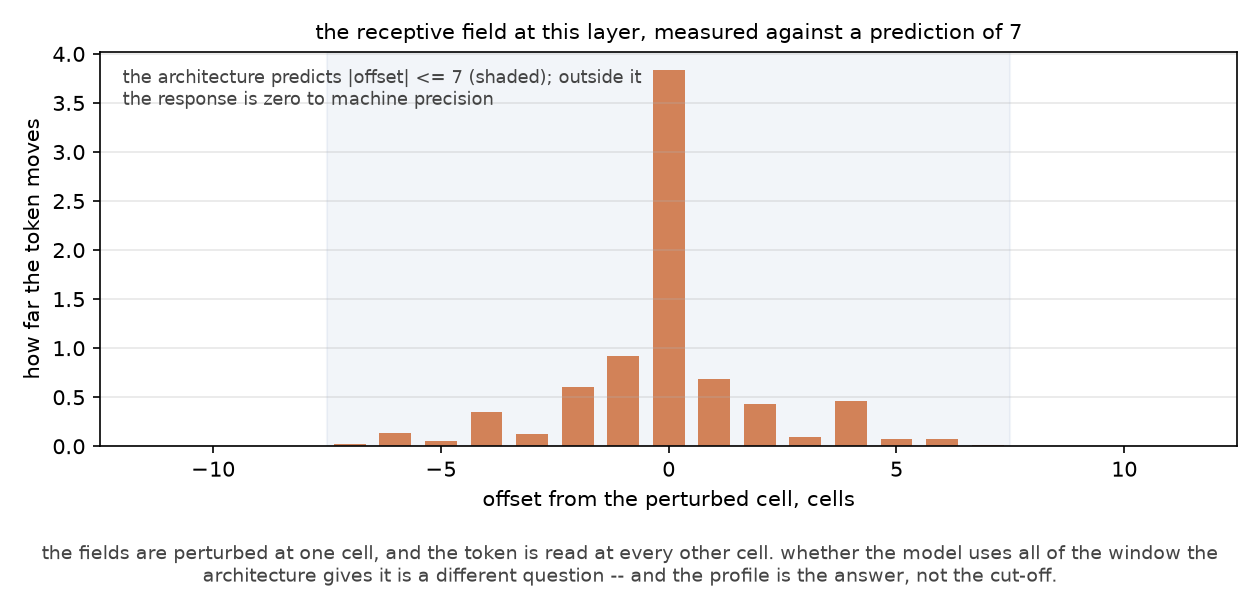
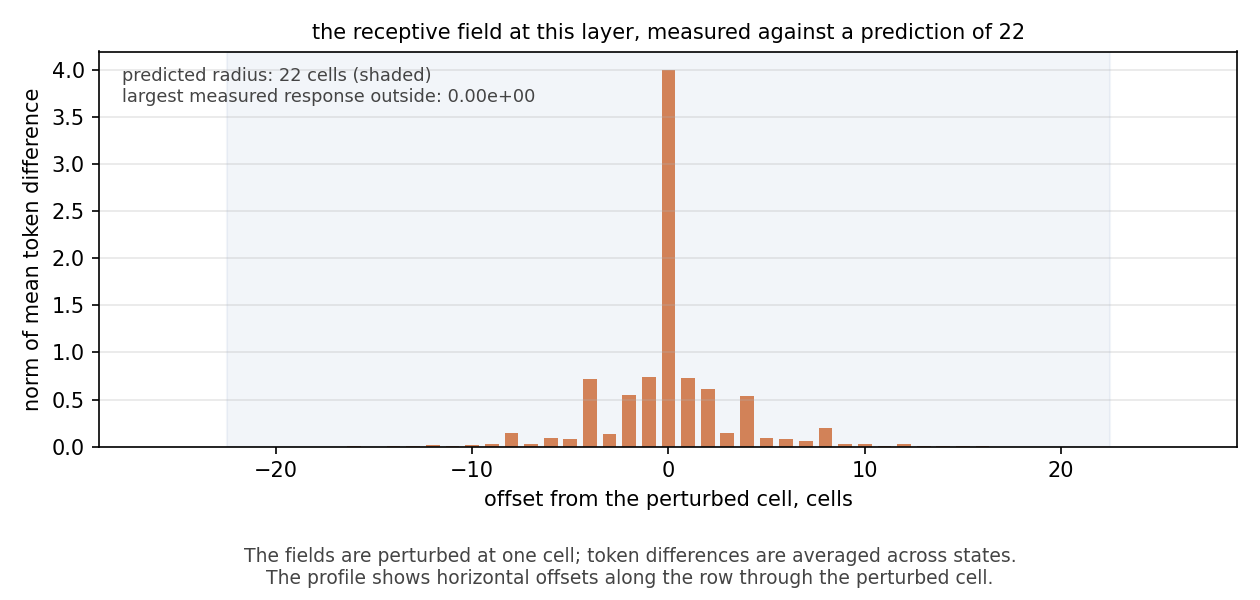
Update README and code to include new SAE firing rates figure and update receptive field measurement

diff --git a/interpret.py b/interpret.py
@@ -248,17 +248,18 @@ def receptive_field_figure(offsets, sizes, radius, out_path, dpi=150):
                                     for offset in offsets], width=0.7)
     axis.axvspan(-radius - 0.5, radius + 0.5, color=INPUT_COLOUR, alpha=0.07)
     axis.set_xlabel("offset from the perturbed cell, cells")
-    axis.set_ylabel("how far the token moves")
+    axis.set_ylabel("norm of mean token difference")
     axis.set_title(f"the receptive field at this layer, measured against a prediction of "
                    f"{radius}", fontsize=10)
     axis.grid(axis="y", alpha=0.3)
-    axis.text(0.02, 0.96, f"the architecture predicts |offset| <= {radius} (shaded); outside it\n"
-                          f"the response is zero to machine precision",
+    outside = [size for offset, size in zip(offsets, sizes) if abs(offset) > radius]
+    outside_max = max(outside)
+    axis.text(0.02, 0.96, f"predicted radius: {radius} cells (shaded)\n"
+                          f"largest measured response outside: {outside_max:.2e}",
               transform=axis.transAxes, ha="left", va="top", fontsize=8.5, color="#444444")
     fig.text(0.5, 0.02,
-             "the fields are perturbed at one cell, and the token is read at every other cell. "
-             "whether the model uses all of the window the\narchitecture gives it is a different "
-             "question -- and the profile is the answer, not the cut-off.",
+             "The fields are perturbed at one cell; token differences are averaged across states.\n"
+             "The profile shows horizontal offsets along the row through the perturbed cell.",
              ha="center", va="bottom", fontsize=9, color="#444444")
     fig.tight_layout(rect=(0, 0.11, 1, 1))
     out_path.parent.mkdir(parents=True, exist_ok=True)
@@ -327,7 +328,11 @@ def main():
     parser.add_argument("--figures", default="figures")
     parser.add_argument("--model-name", default="emulator")
     parser.add_argument("--states", type=int, default=234,
-                        help="validation states to measure over; they are never trained on")
+                        help="number of validation states to measure")
+    parser.add_argument("--state-start", type=int, default=0,
+                        help="first validation state to measure")
+    parser.add_argument("--receptive-field-only", action="store_true",
+                        help="make only the receptive-field plot")
     parser.add_argument("--seed", type=int, default=0)
     parser.add_argument("--threads", type=int, default=4)
     args = parser.parse_args()
@@ -347,9 +352,12 @@ def main():
 
     # Held out from the SAE: tokens from the validation block.
     val = dataset["splits"]["val"]
-    states = val["inputs"][:args.states]
+    if args.state_start < 0 or args.states < 1 \
+            or args.state_start + args.states > len(val["inputs"]):
+        parser.error("requested validation states must fit within the validation block")
+    states = val["inputs"][args.state_start:args.state_start + args.states]
     physical = states[:, -1] * std[None, :, None, None] + mean[None, :, None, None]
-    next_physical = val["raw_targets"][:args.states]
+    next_physical = val["raw_targets"][args.state_start:args.state_start + args.states]
     radius = model.receptive_field_of(layer)
 
     # -------------------------------------------------- 1. the receptive field, measured
@@ -364,9 +372,19 @@ def main():
     h_down = token_activations(model, down, layer, batch_size=8)
     change = (h_up - h_down).reshape(len(states), n_sites, n_sites, -1).mean(dim=0)
     span = radius + MARGIN
+    if span >= n_sites / 2:
+        raise ValueError("receptive-field measurement offsets wrap around the periodic grid")
     offsets = list(range(-span, span + 1))
     sizes = [float(change[n_sites // 2, (n_sites // 2 + offset) % n_sites].norm())
              for offset in offsets]
+
+    if args.receptive_field_only:
+        out_path = Path(args.figures) / "receptive_field.png"
+        receptive_field_figure(offsets, sizes, radius, out_path)
+        outside = [size for offset, size in zip(offsets, sizes) if abs(offset) > radius]
+        print(f"layer {layer}: radius {radius}, maximum outside response {max(outside):.2e}")
+        print(f"wrote {out_path}")
+        return
 
     # -------------------------------------------------- 2. what each latent reads
     tokens = token_activations(model, states, layer, batch_size=8)

diff --git a/train_sae.py b/train_sae.py
@@ -39,7 +39,7 @@ token from the first block sees one cell to either side and cannot know whether 
 blob.
 
 Writes ``<model-dir>/sae.pt``, ``sae_metrics.json`` and ``sae_history.json``, and
-``<figures>/sae.png`` and ``sae_training.png``.
+``<figures>/sae.png``, ``sae_training.png`` and ``sae_firing_rates.png``.
 """
 
 from __future__ import annotations
@@ -357,6 +357,21 @@ def training_figure(history, out_path, dpi=150):
     return out_path
 
 
+def firing_rate_figure(firing_rates, layer, out_path, dpi=150):
+    """Plot each feature's fraction of active training tokens, sorted by frequency."""
+    rates = np.sort(np.asarray(firing_rates))[::-1]
+    fig, axis = plt.subplots(figsize=(7, 4.5))
+    axis.plot(np.arange(1, len(rates) + 1), rates, color=TRAIN_COLOUR)
+    axis.set(xlabel="feature rank (most to least active)",
+             ylabel="fraction of training tokens active", title=f"{layer}: feature activity")
+    axis.grid(alpha=0.3)
+    fig.tight_layout()
+    out_path.parent.mkdir(parents=True, exist_ok=True)
+    fig.savefig(out_path, dpi=dpi)
+    plt.close(fig)
+    return out_path
+
+
 # ----------------------------------------------------------------------------------- main
 
 
@@ -444,6 +459,8 @@ def main():
     (model_dir / "sae_history.json").write_text(json.dumps(history, indent=2))
     sae_figure(n_input, args.n_latent, args.k, args.layer, Path(args.figures) / "sae.png")
     training_figure(history, Path(args.figures) / "sae_training.png")
+    firing_rate_figure(metrics["firing_rate"], args.layer,
+                       Path(args.figures) / "sae_firing_rates.png")
 
     # ---------------------------------------------------------------------- what we found
     print(f"trained the SAE for {args.epochs} epochs in {elapsed:.0f}s")
@@ -462,6 +479,7 @@ def main():
     print(f"wrote {model_dir / 'sae_metrics.json'}")
     print(f"wrote {Path(args.figures) / 'sae.png'}")
     print(f"wrote {Path(args.figures) / 'sae_training.png'}")
+    print(f"wrote {Path(args.figures) / 'sae_firing_rates.png'}")
 
 
 if __name__ == "__main__":

diff --git a/README.md b/README.md
@@ -32,7 +32,7 @@ Main results:
 | 8 | pushing one does not nucleate a spot in the model | a blob appeared at the pushed cell in **0%** of pairs — the strongest direction, the weakest and a random one alike |
 | 9 | the same nudge, given to the equations | **25%** of those nudges nucleate a spot in the **true** system |
 
-**Note:** results 6–9 and sections 5–7 describe the previous four-block emulator, not the
+**Note:** results 6–9 and sections 5.2–7 describe the previous four-block emulator, not the
 new seven-block emulator in section 3. They have not yet been regenerated for the new model.
 
 ## 1. The system
@@ -300,6 +300,15 @@ The dictionary was trained on **1,228,800** tokens from 300 training states and 
 SAE training, so they are not a final independent test. In the recorded run, all 512 features
 fired at least once on training tokens.
 
+![SAE firing rates](figures/sae_firing_rates.png)
+
+*Feature firing rates on the training tokens, sorted from most to least frequent. The x-axis
+is a rank, not a feature number; the y-axis is the fraction of cells where a feature is on.*
+
+Some features are active in many cells, while **366 of 512** are active in fewer than 1%
+of the training tokens. Rates close to zero can be hard to distinguish on this linear scale;
+a rare feature is not necessarily a feature for a rare physical event.
+
 ![SAE training](figures/sae_training.png)
 
 *SAE training on block 6. Left: mean squared reconstruction error (training batch average
@@ -308,30 +317,34 @@ Right: features that never fired during the training batches of each epoch.*
 
 The curves fluctuate considerably before settling. Features that do not fire during an epoch
 are resampled after that epoch, except the last. This resampling can change reconstruction
-and is a plausible contributor to the spikes. The training command above generates this plot
-as well as `figures/sae.png`.
+and is a plausible contributor to the spikes. The training command above generates all three
+SAE figures.
 
 ## 5. What the tokens mean
 
-*What to run:*
-
-```bash
-../../.venv/bin/python interpret.py --data data/gray_scott.npz --model-dir model --figures figures
-```
-
 ### 5.1 The receptive field, measured
 
-The architecture says a token at this layer can be affected by the 7 cells to either
-side and by no others. That is checkable: perturb the fields at **one cell** and measure how much
-the token changes at every other cell.
+After training the emulator and SAE as described above, reproduce the figure with:
+
+```bash
+python interpret.py --data data/gray_scott.npz --model-dir model --figures figures \
+  --state-start 60 --states 120 --receptive-field-only --threads 4
+```
+
+The architecture says a block-6 token can be affected by cells up to **22 cells away** in
+each direction. To check the horizontal profile, we perturb both fields at one cell in both
+input frames by +0.5 or −0.5 standard deviations, run the emulator, and compare the block-6
+tokens along the same row. This is a measurement of the emulator's response, not an injected
+blob event.
 
 ![The receptive field](figures/receptive_field.png)
 
-*Figure 7 — how far from the perturbed cell the token still changes.*
+*Figure 7 — the norm of the mean token difference across 120 validation states, at each
+horizontal offset from the perturbed cell. The shaded region is the theoretical radius.*
 
-Inside the window the token changes by 0.524 on average (Euclidean norm); outside it the change is
-**0.00e+00**, exactly zero. The support follows from the architecture, and the trained network
-matches it to machine precision.
+The largest measured response outside the predicted radius is **0.00e+00** on this
+horizontal line. Responses near the centre are much larger than those near the edge; this
+single perturbation and profile do not measure every input or spatial direction.
 
 ### 5.2 What one direction holds
 
